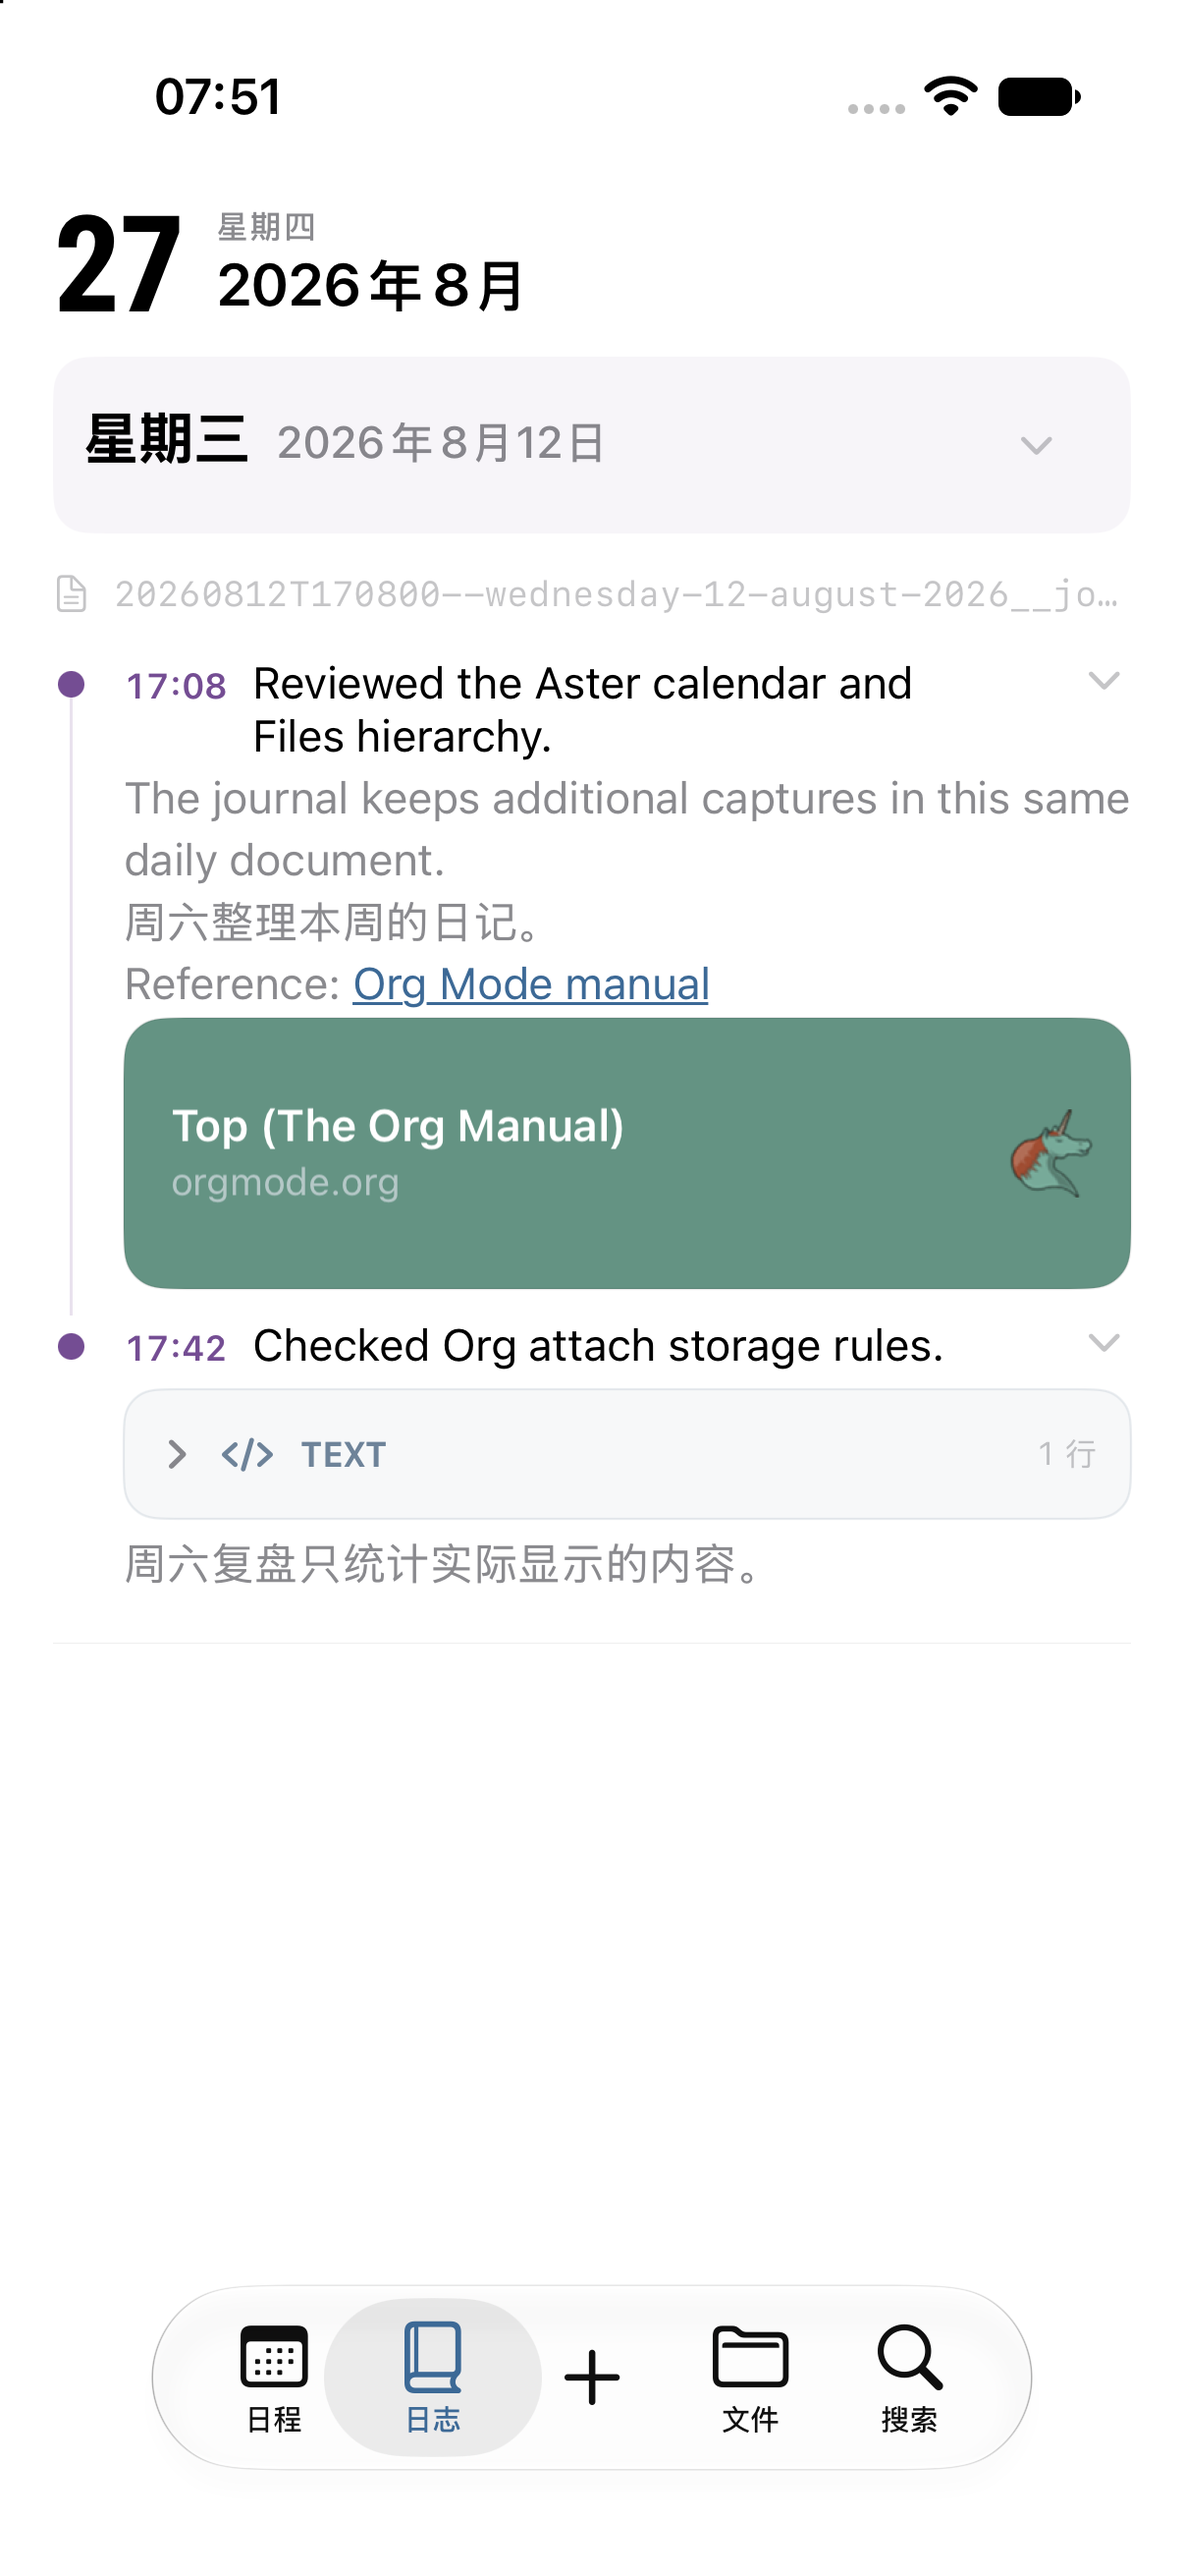
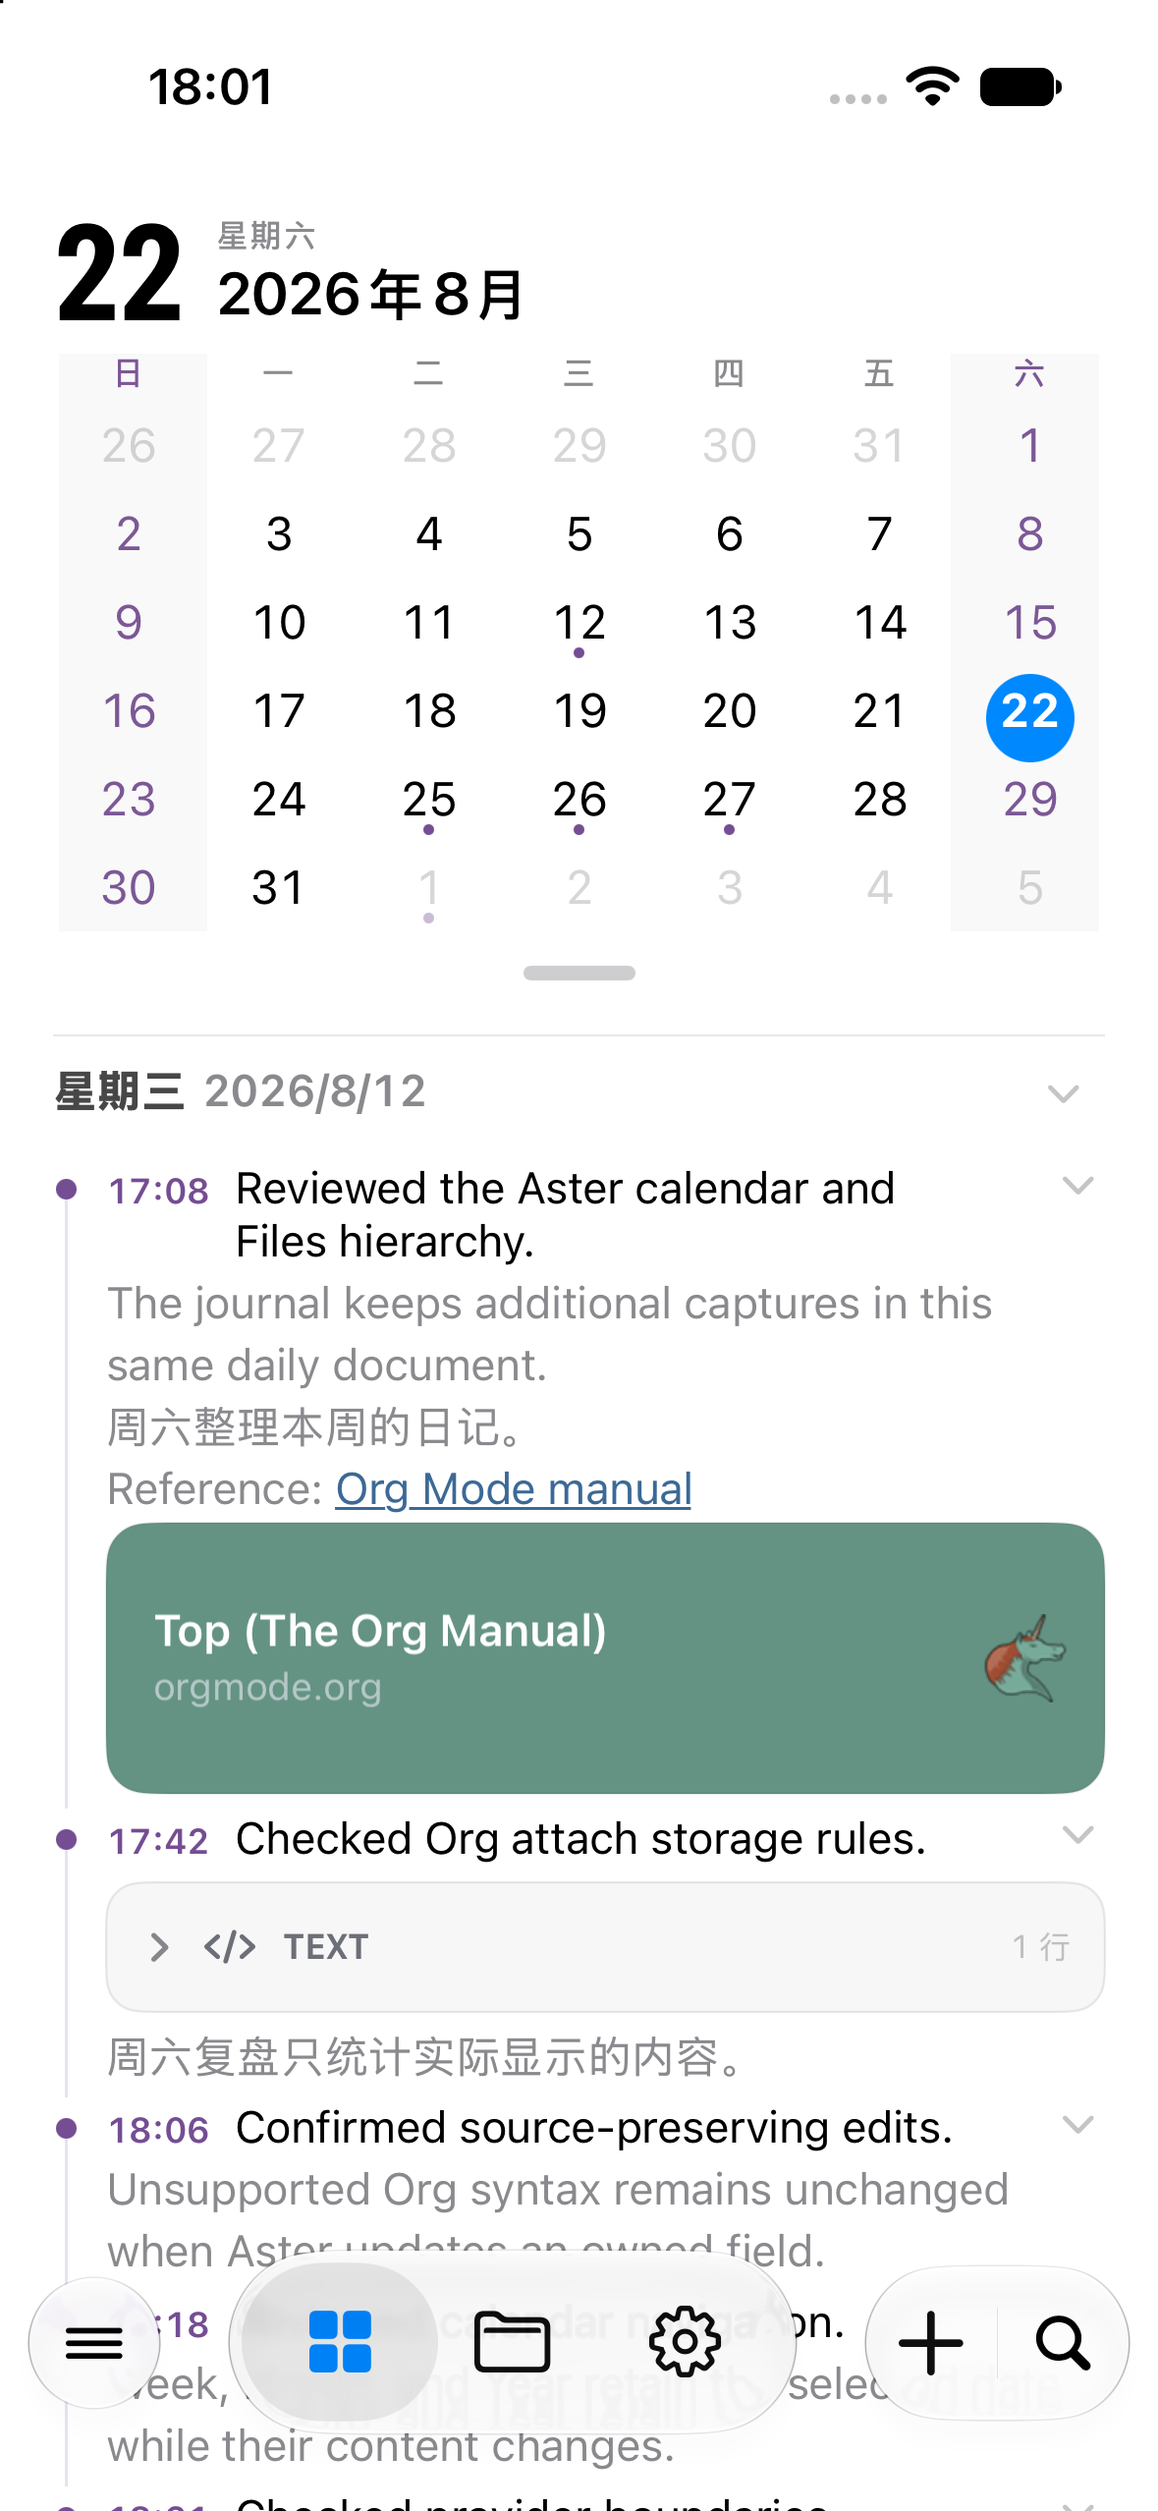
Align sync safety docs and Journal screenshot

diff --git a/docs/en/sync-and-safety.md b/docs/en/sync-and-safety.md
@@ -13,9 +13,9 @@ Aster normally edits its app-local workspace and synchronizes it through the sel
 | Dropbox | OAuth authorization and a selected remote directory | Includes file version history |
 | iCloud Drive | System directory picker | Uses security-scoped access to the selected directory |
 | Nutstore | Account, third-party app password, and workspace directory | Uses Nutstore WebDAV |
-| WebDAV | Server URL with optional credentials | Suitable for Nextcloud and other standard servers |
+| WebDAV | HTTPS server URL with optional credentials | Suitable for Nextcloud and other standard servers |
 
-Nutstore requires a third-party app password, not the account login password. For WebDAV, provide both username and password or leave both blank for an anonymous server. Credentials are stored in the system Keychain.
+Nutstore requires a third-party app password, not the account login password. Generic WebDAV accepts only an HTTPS workspace URL with a host and no embedded credentials; an HTTP URL is neither saved nor connected. Provide both username and password or leave both blank for an anonymous server. The password is stored in the system Keychain, and Basic Auth is sent only over TLS.
 
 Even when a WebDAV server lists a nested file such as `agenda/work/review.org` without separate records for every collection, Aster restores the proven `agenda/` and `agenda/work/` parents from that path. A directory visible in Files should therefore also be available to the Agenda Sources, Journal folder, and Event & Task Inbox path pickers.
 

diff --git a/docs/sync-and-safety.md b/docs/sync-and-safety.md
@@ -13,9 +13,9 @@ Aster 日常编辑的是应用本地工作区，再通过所选来源同步。Ag
 | Dropbox | OAuth 授权并选择远端文件夹 | 支持文件版本历史 |
 | iCloud Drive | 系统文件夹选择器 | 使用安全作用域访问选择的目录 |
 | Nutstore | 账号、第三方应用密码和工作区文件夹 | 使用 Nutstore 的 WebDAV 服务 |
-| WebDAV | 服务器 URL，可选账号与密码 | 适用于 Nextcloud 等标准服务器 |
+| WebDAV | HTTPS 服务器 URL，可选账号与密码 | 适用于 Nextcloud 等标准服务器 |
 
-Nutstore 必须使用第三方应用密码，不要填写账户登录密码。WebDAV 的账号和密码必须同时填写，或同时留空连接匿名服务器。凭据保存在系统 Keychain 中。
+Nutstore 必须使用第三方应用密码，不要填写账户登录密码。通用 WebDAV 只接受带主机名、且不内嵌账号密码的 HTTPS 工作区 URL；HTTP URL 不会保存或连接。WebDAV 的账号和密码必须同时填写，或同时留空连接匿名服务器。密码保存在系统 Keychain 中，Basic Auth 只通过 TLS 发送。
 
 WebDAV 服务器即使只列出 `agenda/work/review.org` 这类嵌套文件、没有为每一级目录单独返回记录，Aster 也会从该路径恢复已经被证明存在的 `agenda/` 与 `agenda/work/`。因此 Files 中看到的目录也应能在 Agenda Sources、Journal folder 和 Event & Task Inbox 的路径选择器中使用。
 

diff --git a/README.en.md b/README.en.md
@@ -8,11 +8,11 @@
 
 Aster is a native Org mode workspace for iPhone and iPad. It presents your existing `.org` files as an agenda, task list, journal, file browser, global search, reminders, and widgets—while keeping the original Org files and adjacent Org Attach directories as the source of truth.
 
-These guides are aligned with TestFlight 0.1 (7) (2026-09-03).
+These guides are aligned with the main repository's Unreleased behavior for the next TestFlight build, based on 0.1 (7) from 3 September 2026.
 
 This repository serves two purposes:
 
-- Provide English and Chinese documentation aligned with the current TestFlight build.
+- Provide English and Chinese documentation aligned with the next TestFlight behavior in the main repository.
 - Collect reproducible bugs, compatibility reports, and feature requests in one public place.
 
 > Aster is still in beta. Before testing with important data, back up both your Org files and every adjacent `data/` attachment directory.

diff --git a/README.md b/README.md
@@ -8,11 +8,11 @@
 
 Aster 是一款面向 iPhone 和 iPad 的原生 Org mode 工作区。它把用户已有的 `.org` 文件呈现为日程、待办、日志、文件、搜索、提醒与小组件，同时仍以原始 Org 文件和 Org Attach 目录为数据源。
 
-当前文档已对齐 TestFlight 0.1 (7)（2026-09-03）。
+当前文档已对齐主仓库下一版 TestFlight 的 Unreleased 行为，基线为 0.1 (7)（2026-09-03）。
 
 这个仓库用于两件事：
 
-- 提供与当前 TestFlight 版本一致的中英文使用文档。
+- 提供与主仓库下一版 TestFlight 行为一致的中英文使用文档。
 - 集中收集可复现的问题、兼容性反馈和功能建议。
 
 > Aster 仍处于测试阶段。测试重要数据前，请先备份 Org 文件和同目录下的 `data/` 附件目录。
